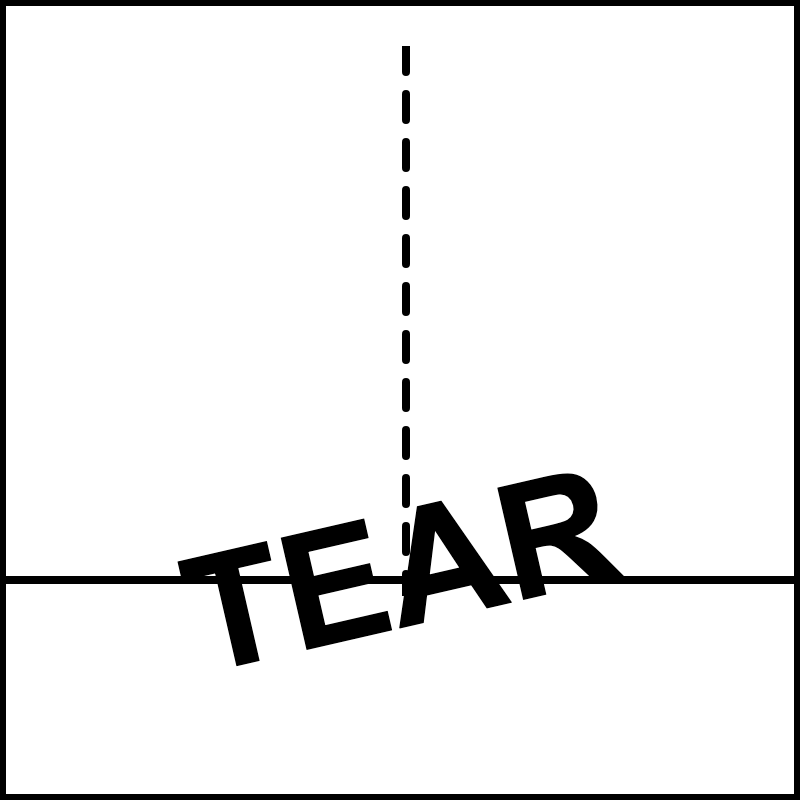
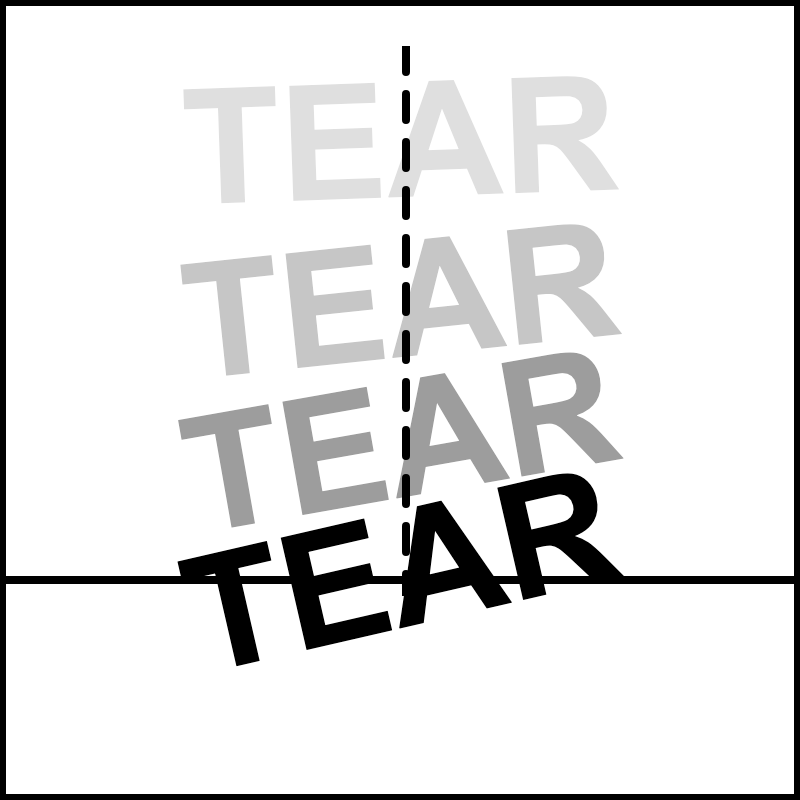
Add falling motion-blur trail to teardrop card
Faint ghost copies of TEAR trail up the drop line, tumbling and
darkening down to the solid landed word, for a clearer fall effect.

Claude-Session: https://claude.ai/code/session_01QFAXVa8qbvmR8EUvRPsQ6z

Changed region(s): [[0.2188, 0.2812, 0.7812, 0.6562], [0.2188, 0.0938, 0.7812, 0.25]]

diff --git a/js/puzzles.js b/js/puzzles.js
@@ -688,6 +688,6 @@ export const PUZZLES = [
     id: 'teardrop',
     answer: 'TEARDROP',
     image: 'images/cards/card-109.png',
-    description: 'html: A dashed vertical line drops from the top of the card down to a ground line near the bottom, where the word "TEAR" lands tilted and sprawled across the ground line, like something dropped from a high place and landed in a sleeping/collapsed pose (representing "TEARDROP").',
+    description: 'html: A dashed vertical line drops from the top of the card down to a ground line near the bottom. Three faint, increasingly dark and tilted ghost copies of the word "TEAR" trail up the line like a motion blur, ending with the solid black word landed tilted and sprawled across the ground line, like something tumbling from a high place and landing in a sleeping/collapsed pose (representing "TEARDROP").',
   },
 ];